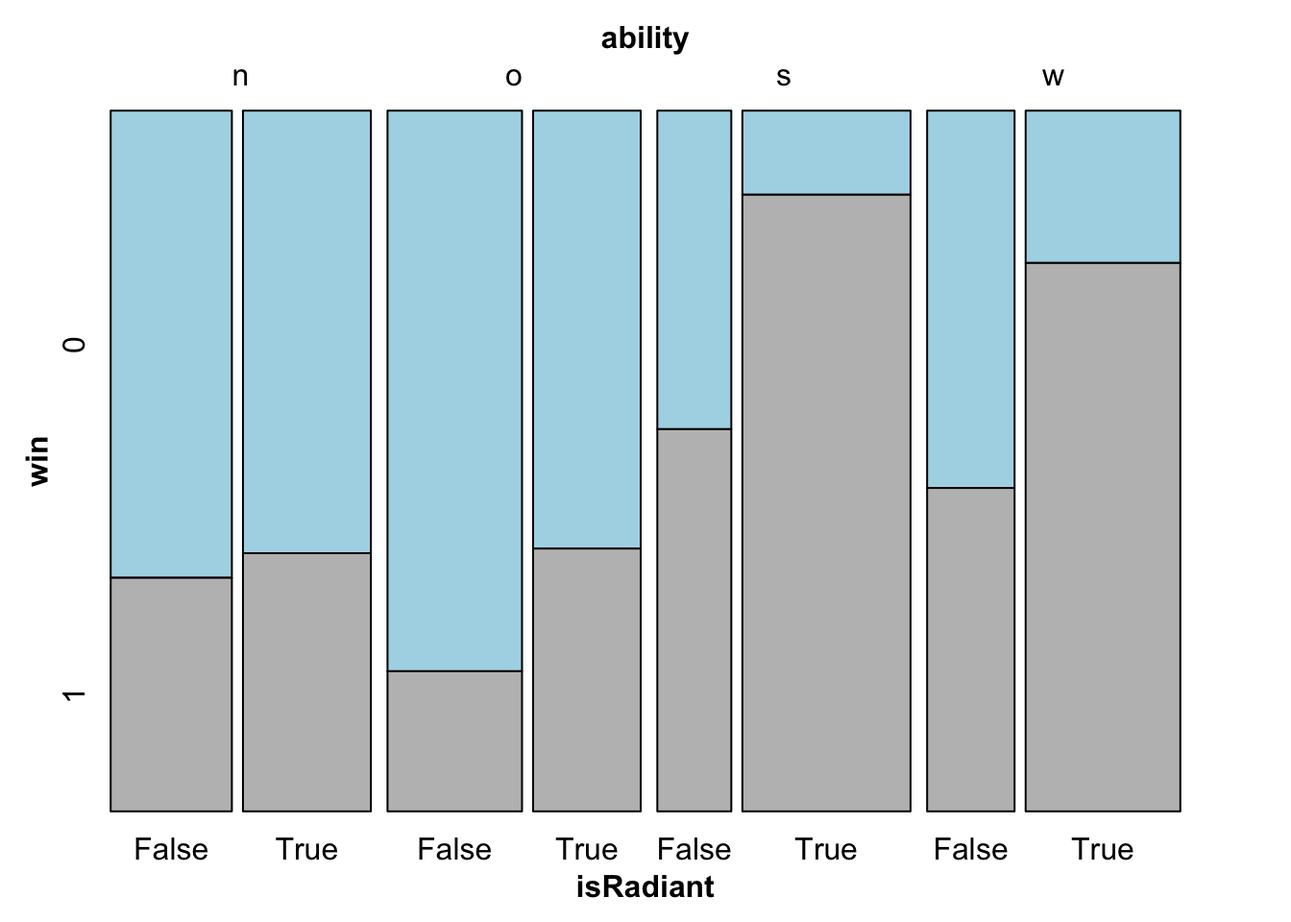
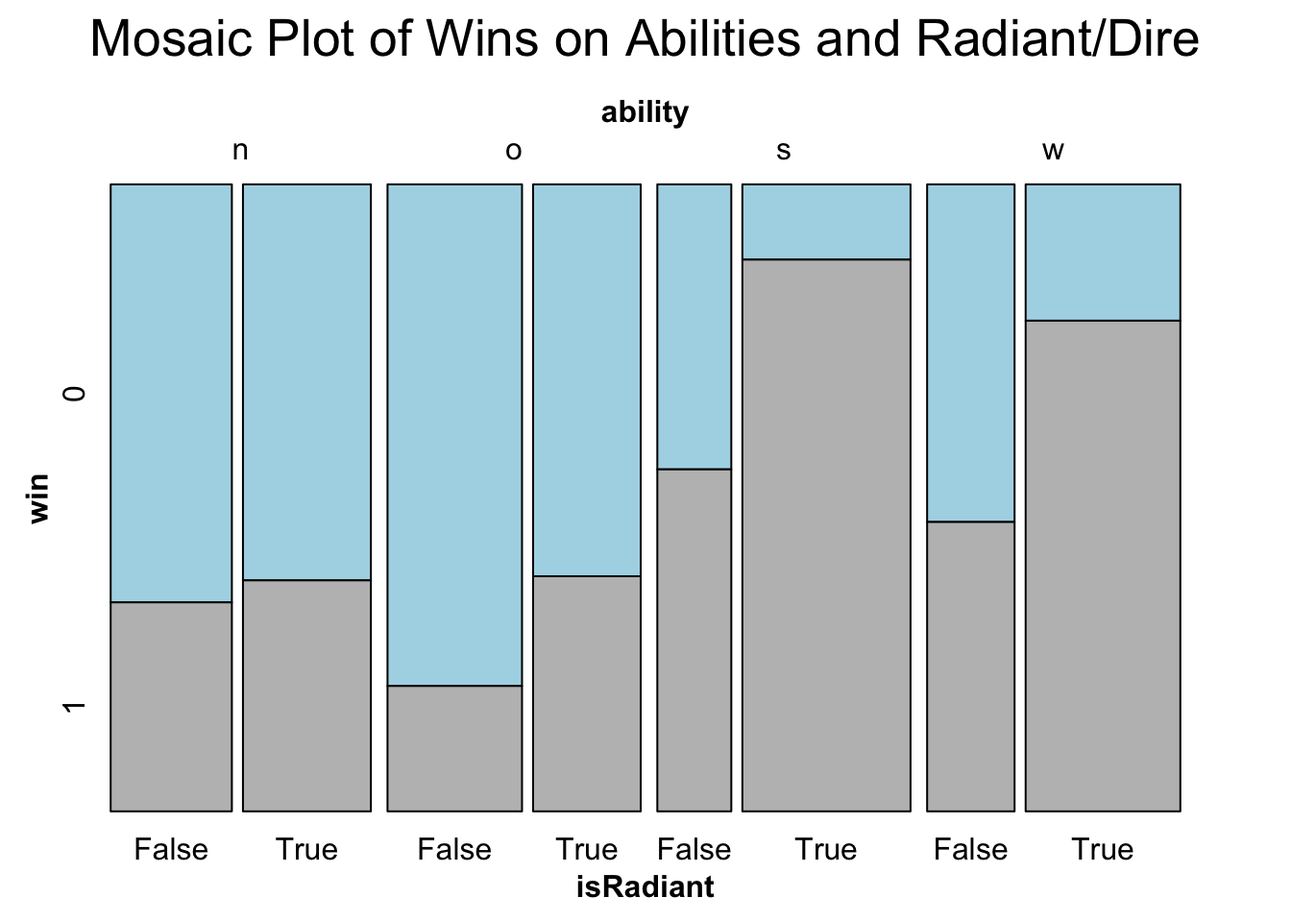
added titles for the graphs in results

diff --git a/docs/results.html b/docs/results.html
@@ -372,8 +372,8 @@ Attaching package: 'dplyr'</code></pre>
 <span id="cb16-2"><a href="#cb16-2" aria-hidden="true" tabindex="-1"></a>parcoords<span class="sc">::</span><span class="fu">parcoords</span>(<span class="at">data =</span> df, <span class="at">rownames =</span> <span class="cn">FALSE</span>, <span class="at">brushMode =</span> <span class="st">"1d-axes"</span>)</span></code><button title="Copy to Clipboard" class="code-copy-button"><i class="bi"></i></button></pre></div>
 </details>
 <div class="cell-output-display">
-<div class="parcoords html-widget html-fill-item-overflow-hidden html-fill-item" height="464px" id="htmlwidget-211e69cf9c2d75d4e1da" style="width:100%;height:464px; position:relative; overflow-x:auto; overflow-y:hidden; max-width:100%;" width="100%"></div>
-<script type="application/json" data-for="htmlwidget-211e69cf9c2d75d4e1da">{"x":{"data":{"names":["9","27","120","154","206","208","304","321","343","352","374","384","395","449","471","485","486","586","596","660","661","714","774","859","878","888","936","979","1009","1010","1046","1083","1117","1142","1151","1209","1262","1271","1296","1339","1351","1408","1418","1492","1499","1518","1577","1587","1652","1657","1663","1760","1794","1812","1850","1877","1954","1982","1989","2001","2053","2058","2098","2101","2113","2115","2131","2188","2224","2275","2300","2307","2352","2382","2390","2393","2442","2465","2484","2524","2561","2580","2607","2618","2676","2696","2713","2724","2735","2768","2831","2835","2836","2880","2884","2888","2939","2992","3093","3128","3264","3371","3405","3440","3452","3500","3533","3566","3570","3623","3722","3781","3793","3867","3895","3901","3931","3976","3986","4023","4050","4096","4149","4172","4174","4251","4278","4384","4415","4504","4569","4599","4639","4674","4745","4805","4823","4840","4885","4902","4906","4990","5009","5032","5070","5104","5149","5259","5292","5308","5328","5400","5437","5469","5511","5518","5627","5640","5655","5660","5690","5713","5728","5757","5762","5777","5855","5860","5886","5944","6000","6017","6021","6153","6192","6197","6200","6209","6259","6264","6318","6335","6338","6383","6422","6425","6436","6541","6553","6560","6581","6665","6718","6744","6841","6842","6943","6949","6958","6996","7027","7036","7052","7055","7123","7157","7163","7173","7312","7371","7422","7432","7492","7517","7556","7575","7608","7614","7698","7708","7712","7756","7780","7796","7845","7885","7914","8013","8029","8081","8106","8107","8155","8194","8261","8272","8371","8583","8606","8616","8639","8713","8760","8819","8906","8933","8941","8946","8953","8985","9044","9125","9180","9188","9251","9258","9283","9320","9394","9398","9495","9527","9549","9615","9625","9746","9747","9763","9851","9858","9863","9896","10004","10079","10091","10108","10110","10133","10135","10197","10217","10230","10350","10359","10388","10396","10398","10402","10570","10624","10626","10651","10706","10760","10762","10798","10848","10858","10886","10913","10987","10995","11043","11046","11110","11115","11131","11202","11228","11266","11304","11306","11315","11344","11368","11374","11394","11399","11430","11463","11525","11546","11588","11600","11630","11795","11835","11839","11863","11869","11939","11997","12031","12046","12051","12086","12103","12171","12202","12305","12325","12352","12437","12490","12495","12530","12548","12565","12566","12576","12629","12667","12758","12762","12770","12873","12878","12887","12898"],"total_gold":[25183,30851,27274,13003,12509,12509,30185,17614,9393,14259,5682,17392,15124,30046,36036,29454,29454,19856,43413,41092,41092,12212,18425,12024,14681,16605,33060,10076,40849,26869,24098,7600,10773,10589,19661,28383,10184,24656,13625,20535,21393,33108,18393,11888,15315,11923,20632,15562,22170,15846,17062,21730,21035,19721,14113,22916,11049,19572,17472,16842,18437,28001,32981,27420,15416,13844,2495,7158,29258,45758,34103,24064,41526,23287,44698,44698,18171,8458,34603,27803,23910,13807,8924,6370,11860,8212,24300,11296,22921,25810,10384,19353,19353,7513,14257,20178,14678,16241,14867,13989,33081,16902,20741,23265,21574,33336,11142,8126,23404,13528,5063,16992,7833,11849,803,3279,15762,19533,23324,44624,14906,23438,8492,14200,15898,23813,20849,31291,12208,12078,17051,13892,33357,14560,15186,17199,15574,17385,13578,34735,13463,12731,31562,29479,4085,15596,8426,20644,18215,20055,31988,15729,29856,30290,24238,13424,12979,12064,29373,16653,37256,26911,27904,13328,15084,15235,48727,35431,20899,41817,11873,15934,10973,13462,17824,26092,12401,14457,15542,25758,29502,18542,18542,5726,12854,45142,57973,29612,27312,37425,52298,7972,26694,19224,8557,8557,12681,44236,57094,13792,12777,22034,22550,11654,21450,27471,29373,38381,17362,17657,13438,17232,16742,14809,20824,26392,16629,19116,28914,11165,10986,15788,36967,19329,34913,9604,23854,21269,34195,21612,12707,12707,29552,33920,38006,37642,26212,13662,14336,11006,14901,15865,19286,8477,52783,48085,21011,20384,26112,29923,11192,19873,39718,29848,13852,9705,6431,19545,28431,28206,21129,29500,32595,10905,22618,32250,30911,14901,20435,25357,13320,14441,14840,20413,19307,32885,21853,1935,4532,15235,18512,11453,25801,16759,23798,9961,9961,18167,24464,6187,5603,16446,16305,22185,22185,12564,13190,34931,22454,16334,28446,12717,9350,12672,14402,10160,21943,14075,7112,17469,11515,6009,22678,14554,7411,16972,49119,34226,40306,13546,22654,22317,21516,39950,18600,24445,17093,16014,31803,30903,13574,8641,12674,16850,10275,16705,43394,14653,8664,15724,24641,24401,19061,20601,19434,17237,18630,11969,11969,16075,12762,31382,12009,26665,11347,22332,3846,9039,3472],"kills":[5,13,7,2,6,6,4,7,2,4,0,6,4,7,20,10,10,2,14,14,14,7,4,3,3,16,9,0,17,14,10,0,4,0,12,10,2,10,2,6,9,7,5,2,9,1,8,4,10,6,8,2,17,9,1,16,2,7,3,4,5,13,18,20,3,5,0,2,10,20,21,6,20,4,18,18,14,4,10,20,9,5,10,2,1,3,21,2,16,7,8,7,7,1,3,7,7,8,13,3,11,13,3,14,10,15,1,2,15,9,0,11,1,1,0,3,0,2,5,34,6,9,2,8,1,15,9,9,2,4,6,6,11,5,3,3,2,8,4,20,3,4,13,4,0,6,3,3,1,6,17,5,5,17,11,5,4,3,14,9,9,5,12,2,8,7,4,9,1,20,10,11,4,5,2,17,5,8,7,16,22,7,7,0,7,13,22,13,7,6,27,5,10,6,8,8,0,8,24,2,7,14,12,1,6,11,7,17,3,0,0,6,7,6,11,9,9,4,13,4,10,6,15,8,14,5,4,14,3,11,5,5,9,5,14,13,22,4,5,3,7,0,9,1,14,20,4,2,5,8,5,12,16,7,5,2,2,6,4,4,9,8,4,8,8,9,12,8,7,6,10,6,3,14,3,12,3,0,3,12,7,3,11,1,3,3,3,6,13,0,2,3,9,4,4,5,7,13,10,4,14,3,0,6,8,1,4,5,3,8,2,3,15,6,0,5,7,11,11,0,6,4,4,19,5,6,4,4,17,6,1,3,1,2,3,2,17,4,3,7,8,11,5,10,4,5,6,8,8,6,6,12,3,15,1,14,1,9,1],"kda":[1.92,3,2,2.3,1.6,1.6,3.5,0.92,1.2,1.13,0.44,5,4.2,2.17,7,8.25,8.25,1.73,2.4,3.91,3.91,3.57,1.62,7,2,42,2.57,0.5600000000000001,19,2.8,3,0.57,3.8,0.43,4.86,2.81,1,7.75,1.5,1.78,2.67,3.14,3.22,3,3.5,0.23,1.77,2,22,2.56,3.75,1.05,3.71,1.63,2.83,2.38,1.88,4.5,1.8,2.45,2.17,3.38,15.5,9,0.86,1.06,2,1,2.13,4.13,9.5,1.36,4.43,3.13,10.67,10.67,6,0.64,2.25,2.75,1.91,2.13,5.5,1.5,1.8,1.45,3.78,9,10.5,10,1.27,2.22,2.22,6.5,1.29,1.64,1.89,2.92,2.22,3.67,3,3.11,1.2,5.25,3.13,4,1,2,7.75,1.45,0.33,7,0.31,2.33,0,5,2.1,2,1.83,9,5.25,13.5,1.64,2,1.07,7.5,5.5,7.5,1.7,1.6,1.62,2.88,5.17,0.77,2,3,1.08,3.75,1.83,6.2,1.64,1.83,4.67,1.33,0.33,1.8,1.4,2.13,2.09,1.62,5,1.75,1.67,8.25,1.73,1.36,1.06,3.57,14,2,1.21,4.33,4.67,0.64,7.5,20,5.6,2,0.93,7.33,2.78,13,0.67,0.64,3,10.67,3.5,2.22,5.25,13,4.43,1.44,1.44,0,4.33,1.61,6.43,8,1.75,1.82,5,0.67,7.75,1.91,8.5,8.5,1,4.17,3.4,2.71,6.25,11.5,3.75,2.2,1.67,2.46,2.17,4.09,2.38,3,0.54,1.58,1.33,1.54,1.5,4.33,1.69,2,3.57,2.29,5,2.08,4,1.8,6.5,1.33,1.64,2.13,1.53,6,1.56,1.56,8,4.5,4.43,3.9,5,4,4.67,0.67,10,6,1.36,0.2,2.33,3.38,2.8,1.29,2,4.13,2.8,11,7.75,10.33,7.33,0.5,0.62,1.83,1.36,3.11,1.85,2.13,2.07,2.75,2,3.88,2.89,4.29,3.43,2.55,2,1.5,1.33,2,7,2.25,1.33,0,3,2.45,4.67,2.11,1.88,1.56,3.29,1.08,1.08,1.64,2.71,0.4,0.5,3.25,2.43,3.5,3.5,7,1.73,2.5,5,0.82,11,4.67,1.5,0.92,1.15,0.7,2.2,2.29,0.76,3.33,1.33,0.5600000000000001,20,2,1.29,1.88,3.64,1.83,2.86,0.33,4.75,1.71,1.83,3.89,1.31,4,1.42,2.78,4.2,5.75,0.43,0.58,8.5,5,3.33,2.44,3.33,4.2,0.79,2.33,3.5,1.67,9,3.43,1.67,1.9,2.45,0.77,0.77,6,2.22,2.44,7.33,22,4.4,2.71,1.6,9,0.43],"total_xp":[30112,35286,30811,20044,14079,14079,30585,18935,12149,14906,7576,18540,21037,34749,46134,35439,35439,34780,43290,50728,50728,18861,24520,18800,21258,21102,39840,13984,45425,35098,35098,9713,12150,14522,27253,38045,13721,30373,20194,23785,27080,35119,29086,15672,19563,11888,27258,23945,25263,20328,19807,30201,26627,22199,20820,27772,19618,25914,20412,21294,28571,36426,41839,37621,19251,20133,2316,8673,32771,43323,41740,35352,50936,34820,45746,45746,15983,8031,39838,35191,37786,20386,8806,6489,12362,10650,27712,17685,26544,27950,13385,23500,23500,9141,18766,33707,18252,24094,17521,18452,44362,25056,21691,35457,28156,42360,12549,10338,28832,16355,3281,18864,11577,17633,316,2102,23046,24792,22880,49748,22394,26980,10089,18644,19475,33624,20047,36250,19500,16834,20515,20820,42612,16632,17868,20097,13377,17226,17463,41351,20887,19281,39218,41354,3941,18316,14950,22929,28310,31002,37295,17502,35258,35692,35010,15702,9879,15736,31701,19407,45295,46902,30602,17636,16192,15235,50988,50920,28429,46263,15831,18838,12978,18736,27692,35515,12570,17928,26195,35218,41875,26746,26746,5379,10961,50061,58239,41553,36452,40887,48837,9545,34449,21796,10265,10265,13692,49583,54293,17319,17269,19788,23308,17511,27866,44983,42522,48900,20793,21159,17892,28971,23288,19486,31765,36902,22920,26821,33813,9683,11701,32054,44361,24388,38170,12106,28709,30127,37105,24472,19110,19110,35153,46481,41583,44121,28050,19382,17197,17995,15612,27227,25172,7691,58473,45210,31725,32300,26206,36699,10781,23144,45640,40196,15897,10972,8665,23408,37326,35469,28908,35621,46898,14272,31560,39991,39147,18255,31355,31562,21882,23089,18270,27554,31909,41924,26054,2555,3838,18332,22906,15523,27962,21020,35433,12864,12864,30350,30223,8588,5494,15065,14565,33345,33345,9888,22650,40025,29739,20652,31257,19377,17673,15412,15365,13154,27509,14344,10489,19678,14114,8133,26975,14115,13939,21696,52262,46865,57659,17878,31140,29495,36757,45544,25639,23237,25100,22806,36571,36571,17115,9382,13634,14831,10482,30049,46905,21375,9355,25793,35558,36441,28592,26256,34919,27561,32603,12351,12351,17412,16365,41050,19916,30767,19056,35027,4894,8156,5133]},"options":{"rownames":false,"brushMode":"1D-axes","brushPredicate":"AND","reorderable":false,"margin":{"top":50,"bottom":50,"left":100,"right":50},"mode":false,"bundlingStrength":0.5,"smoothness":0},"autoresize":false,"tasks":null},"evals":[],"jsHooks":[]}</script>
+<div class="parcoords html-widget html-fill-item-overflow-hidden html-fill-item" height="464px" id="htmlwidget-132b65a745323eacc547" style="width:100%;height:464px; position:relative; overflow-x:auto; overflow-y:hidden; max-width:100%;" width="100%"></div>
+<script type="application/json" data-for="htmlwidget-132b65a745323eacc547">{"x":{"data":{"names":["9","27","120","154","206","208","304","321","343","352","374","384","395","449","471","485","486","586","596","660","661","714","774","859","878","888","936","979","1009","1010","1046","1083","1117","1142","1151","1209","1262","1271","1296","1339","1351","1408","1418","1492","1499","1518","1577","1587","1652","1657","1663","1760","1794","1812","1850","1877","1954","1982","1989","2001","2053","2058","2098","2101","2113","2115","2131","2188","2224","2275","2300","2307","2352","2382","2390","2393","2442","2465","2484","2524","2561","2580","2607","2618","2676","2696","2713","2724","2735","2768","2831","2835","2836","2880","2884","2888","2939","2992","3093","3128","3264","3371","3405","3440","3452","3500","3533","3566","3570","3623","3722","3781","3793","3867","3895","3901","3931","3976","3986","4023","4050","4096","4149","4172","4174","4251","4278","4384","4415","4504","4569","4599","4639","4674","4745","4805","4823","4840","4885","4902","4906","4990","5009","5032","5070","5104","5149","5259","5292","5308","5328","5400","5437","5469","5511","5518","5627","5640","5655","5660","5690","5713","5728","5757","5762","5777","5855","5860","5886","5944","6000","6017","6021","6153","6192","6197","6200","6209","6259","6264","6318","6335","6338","6383","6422","6425","6436","6541","6553","6560","6581","6665","6718","6744","6841","6842","6943","6949","6958","6996","7027","7036","7052","7055","7123","7157","7163","7173","7312","7371","7422","7432","7492","7517","7556","7575","7608","7614","7698","7708","7712","7756","7780","7796","7845","7885","7914","8013","8029","8081","8106","8107","8155","8194","8261","8272","8371","8583","8606","8616","8639","8713","8760","8819","8906","8933","8941","8946","8953","8985","9044","9125","9180","9188","9251","9258","9283","9320","9394","9398","9495","9527","9549","9615","9625","9746","9747","9763","9851","9858","9863","9896","10004","10079","10091","10108","10110","10133","10135","10197","10217","10230","10350","10359","10388","10396","10398","10402","10570","10624","10626","10651","10706","10760","10762","10798","10848","10858","10886","10913","10987","10995","11043","11046","11110","11115","11131","11202","11228","11266","11304","11306","11315","11344","11368","11374","11394","11399","11430","11463","11525","11546","11588","11600","11630","11795","11835","11839","11863","11869","11939","11997","12031","12046","12051","12086","12103","12171","12202","12305","12325","12352","12437","12490","12495","12530","12548","12565","12566","12576","12629","12667","12758","12762","12770","12873","12878","12887","12898"],"total_gold":[25183,30851,27274,13003,12509,12509,30185,17614,9393,14259,5682,17392,15124,30046,36036,29454,29454,19856,43413,41092,41092,12212,18425,12024,14681,16605,33060,10076,40849,26869,24098,7600,10773,10589,19661,28383,10184,24656,13625,20535,21393,33108,18393,11888,15315,11923,20632,15562,22170,15846,17062,21730,21035,19721,14113,22916,11049,19572,17472,16842,18437,28001,32981,27420,15416,13844,2495,7158,29258,45758,34103,24064,41526,23287,44698,44698,18171,8458,34603,27803,23910,13807,8924,6370,11860,8212,24300,11296,22921,25810,10384,19353,19353,7513,14257,20178,14678,16241,14867,13989,33081,16902,20741,23265,21574,33336,11142,8126,23404,13528,5063,16992,7833,11849,803,3279,15762,19533,23324,44624,14906,23438,8492,14200,15898,23813,20849,31291,12208,12078,17051,13892,33357,14560,15186,17199,15574,17385,13578,34735,13463,12731,31562,29479,4085,15596,8426,20644,18215,20055,31988,15729,29856,30290,24238,13424,12979,12064,29373,16653,37256,26911,27904,13328,15084,15235,48727,35431,20899,41817,11873,15934,10973,13462,17824,26092,12401,14457,15542,25758,29502,18542,18542,5726,12854,45142,57973,29612,27312,37425,52298,7972,26694,19224,8557,8557,12681,44236,57094,13792,12777,22034,22550,11654,21450,27471,29373,38381,17362,17657,13438,17232,16742,14809,20824,26392,16629,19116,28914,11165,10986,15788,36967,19329,34913,9604,23854,21269,34195,21612,12707,12707,29552,33920,38006,37642,26212,13662,14336,11006,14901,15865,19286,8477,52783,48085,21011,20384,26112,29923,11192,19873,39718,29848,13852,9705,6431,19545,28431,28206,21129,29500,32595,10905,22618,32250,30911,14901,20435,25357,13320,14441,14840,20413,19307,32885,21853,1935,4532,15235,18512,11453,25801,16759,23798,9961,9961,18167,24464,6187,5603,16446,16305,22185,22185,12564,13190,34931,22454,16334,28446,12717,9350,12672,14402,10160,21943,14075,7112,17469,11515,6009,22678,14554,7411,16972,49119,34226,40306,13546,22654,22317,21516,39950,18600,24445,17093,16014,31803,30903,13574,8641,12674,16850,10275,16705,43394,14653,8664,15724,24641,24401,19061,20601,19434,17237,18630,11969,11969,16075,12762,31382,12009,26665,11347,22332,3846,9039,3472],"kills":[5,13,7,2,6,6,4,7,2,4,0,6,4,7,20,10,10,2,14,14,14,7,4,3,3,16,9,0,17,14,10,0,4,0,12,10,2,10,2,6,9,7,5,2,9,1,8,4,10,6,8,2,17,9,1,16,2,7,3,4,5,13,18,20,3,5,0,2,10,20,21,6,20,4,18,18,14,4,10,20,9,5,10,2,1,3,21,2,16,7,8,7,7,1,3,7,7,8,13,3,11,13,3,14,10,15,1,2,15,9,0,11,1,1,0,3,0,2,5,34,6,9,2,8,1,15,9,9,2,4,6,6,11,5,3,3,2,8,4,20,3,4,13,4,0,6,3,3,1,6,17,5,5,17,11,5,4,3,14,9,9,5,12,2,8,7,4,9,1,20,10,11,4,5,2,17,5,8,7,16,22,7,7,0,7,13,22,13,7,6,27,5,10,6,8,8,0,8,24,2,7,14,12,1,6,11,7,17,3,0,0,6,7,6,11,9,9,4,13,4,10,6,15,8,14,5,4,14,3,11,5,5,9,5,14,13,22,4,5,3,7,0,9,1,14,20,4,2,5,8,5,12,16,7,5,2,2,6,4,4,9,8,4,8,8,9,12,8,7,6,10,6,3,14,3,12,3,0,3,12,7,3,11,1,3,3,3,6,13,0,2,3,9,4,4,5,7,13,10,4,14,3,0,6,8,1,4,5,3,8,2,3,15,6,0,5,7,11,11,0,6,4,4,19,5,6,4,4,17,6,1,3,1,2,3,2,17,4,3,7,8,11,5,10,4,5,6,8,8,6,6,12,3,15,1,14,1,9,1],"kda":[1.92,3,2,2.3,1.6,1.6,3.5,0.92,1.2,1.13,0.44,5,4.2,2.17,7,8.25,8.25,1.73,2.4,3.91,3.91,3.57,1.62,7,2,42,2.57,0.5600000000000001,19,2.8,3,0.57,3.8,0.43,4.86,2.81,1,7.75,1.5,1.78,2.67,3.14,3.22,3,3.5,0.23,1.77,2,22,2.56,3.75,1.05,3.71,1.63,2.83,2.38,1.88,4.5,1.8,2.45,2.17,3.38,15.5,9,0.86,1.06,2,1,2.13,4.13,9.5,1.36,4.43,3.13,10.67,10.67,6,0.64,2.25,2.75,1.91,2.13,5.5,1.5,1.8,1.45,3.78,9,10.5,10,1.27,2.22,2.22,6.5,1.29,1.64,1.89,2.92,2.22,3.67,3,3.11,1.2,5.25,3.13,4,1,2,7.75,1.45,0.33,7,0.31,2.33,0,5,2.1,2,1.83,9,5.25,13.5,1.64,2,1.07,7.5,5.5,7.5,1.7,1.6,1.62,2.88,5.17,0.77,2,3,1.08,3.75,1.83,6.2,1.64,1.83,4.67,1.33,0.33,1.8,1.4,2.13,2.09,1.62,5,1.75,1.67,8.25,1.73,1.36,1.06,3.57,14,2,1.21,4.33,4.67,0.64,7.5,20,5.6,2,0.93,7.33,2.78,13,0.67,0.64,3,10.67,3.5,2.22,5.25,13,4.43,1.44,1.44,0,4.33,1.61,6.43,8,1.75,1.82,5,0.67,7.75,1.91,8.5,8.5,1,4.17,3.4,2.71,6.25,11.5,3.75,2.2,1.67,2.46,2.17,4.09,2.38,3,0.54,1.58,1.33,1.54,1.5,4.33,1.69,2,3.57,2.29,5,2.08,4,1.8,6.5,1.33,1.64,2.13,1.53,6,1.56,1.56,8,4.5,4.43,3.9,5,4,4.67,0.67,10,6,1.36,0.2,2.33,3.38,2.8,1.29,2,4.13,2.8,11,7.75,10.33,7.33,0.5,0.62,1.83,1.36,3.11,1.85,2.13,2.07,2.75,2,3.88,2.89,4.29,3.43,2.55,2,1.5,1.33,2,7,2.25,1.33,0,3,2.45,4.67,2.11,1.88,1.56,3.29,1.08,1.08,1.64,2.71,0.4,0.5,3.25,2.43,3.5,3.5,7,1.73,2.5,5,0.82,11,4.67,1.5,0.92,1.15,0.7,2.2,2.29,0.76,3.33,1.33,0.5600000000000001,20,2,1.29,1.88,3.64,1.83,2.86,0.33,4.75,1.71,1.83,3.89,1.31,4,1.42,2.78,4.2,5.75,0.43,0.58,8.5,5,3.33,2.44,3.33,4.2,0.79,2.33,3.5,1.67,9,3.43,1.67,1.9,2.45,0.77,0.77,6,2.22,2.44,7.33,22,4.4,2.71,1.6,9,0.43],"total_xp":[30112,35286,30811,20044,14079,14079,30585,18935,12149,14906,7576,18540,21037,34749,46134,35439,35439,34780,43290,50728,50728,18861,24520,18800,21258,21102,39840,13984,45425,35098,35098,9713,12150,14522,27253,38045,13721,30373,20194,23785,27080,35119,29086,15672,19563,11888,27258,23945,25263,20328,19807,30201,26627,22199,20820,27772,19618,25914,20412,21294,28571,36426,41839,37621,19251,20133,2316,8673,32771,43323,41740,35352,50936,34820,45746,45746,15983,8031,39838,35191,37786,20386,8806,6489,12362,10650,27712,17685,26544,27950,13385,23500,23500,9141,18766,33707,18252,24094,17521,18452,44362,25056,21691,35457,28156,42360,12549,10338,28832,16355,3281,18864,11577,17633,316,2102,23046,24792,22880,49748,22394,26980,10089,18644,19475,33624,20047,36250,19500,16834,20515,20820,42612,16632,17868,20097,13377,17226,17463,41351,20887,19281,39218,41354,3941,18316,14950,22929,28310,31002,37295,17502,35258,35692,35010,15702,9879,15736,31701,19407,45295,46902,30602,17636,16192,15235,50988,50920,28429,46263,15831,18838,12978,18736,27692,35515,12570,17928,26195,35218,41875,26746,26746,5379,10961,50061,58239,41553,36452,40887,48837,9545,34449,21796,10265,10265,13692,49583,54293,17319,17269,19788,23308,17511,27866,44983,42522,48900,20793,21159,17892,28971,23288,19486,31765,36902,22920,26821,33813,9683,11701,32054,44361,24388,38170,12106,28709,30127,37105,24472,19110,19110,35153,46481,41583,44121,28050,19382,17197,17995,15612,27227,25172,7691,58473,45210,31725,32300,26206,36699,10781,23144,45640,40196,15897,10972,8665,23408,37326,35469,28908,35621,46898,14272,31560,39991,39147,18255,31355,31562,21882,23089,18270,27554,31909,41924,26054,2555,3838,18332,22906,15523,27962,21020,35433,12864,12864,30350,30223,8588,5494,15065,14565,33345,33345,9888,22650,40025,29739,20652,31257,19377,17673,15412,15365,13154,27509,14344,10489,19678,14114,8133,26975,14115,13939,21696,52262,46865,57659,17878,31140,29495,36757,45544,25639,23237,25100,22806,36571,36571,17115,9382,13634,14831,10482,30049,46905,21375,9355,25793,35558,36441,28592,26256,34919,27561,32603,12351,12351,17412,16365,41050,19916,30767,19056,35027,4894,8156,5133]},"options":{"rownames":false,"brushMode":"1D-axes","brushPredicate":"AND","reorderable":false,"margin":{"top":50,"bottom":50,"left":100,"right":50},"mode":false,"bundlingStrength":0.5,"smoothness":0},"autoresize":false,"tasks":null},"evals":[],"jsHooks":[]}</script>
 </div>
 </div>
 <p>This is the interactive parallel coordinate plot for all 10 abilities. We make it interactive such that we can move axis around and we can filter for particular section which easier to see the top abilities. However, since the dataset is too large, the lines overlap, so we need to select specific region to interpret the plot.</p>
@@ -384,8 +384,8 @@ Attaching package: 'dplyr'</code></pre>
 <span id="cb17-2"><a href="#cb17-2" aria-hidden="true" tabindex="-1"></a>parcoords<span class="sc">::</span><span class="fu">parcoords</span>(<span class="at">data =</span> df, <span class="at">rownames =</span> <span class="cn">FALSE</span>, <span class="at">brushMode =</span> <span class="st">"1d-axes"</span>)</span></code><button title="Copy to Clipboard" class="code-copy-button"><i class="bi"></i></button></pre></div>
 </details>
 <div class="cell-output-display">
-<div class="parcoords html-widget html-fill-item-overflow-hidden html-fill-item" height="464px" id="htmlwidget-9106399374efac8b5dff" style="width:100%;height:464px; position:relative; overflow-x:auto; overflow-y:hidden; max-width:100%;" width="100%"></div>
-<script type="application/json" data-for="htmlwidget-9106399374efac8b5dff">{"x":{"data":{"names":["1009","2098","2390","2393","6197"],"total_gold":[40849,32981,44698,44698,26092],"kills":[17,18,18,18,17],"kda":[19,15.5,10.67,10.67,10.67],"total_xp":[45425,41839,45746,45746,35515]},"options":{"rownames":false,"brushMode":"1D-axes","brushPredicate":"AND","reorderable":false,"margin":{"top":50,"bottom":50,"left":100,"right":50},"mode":false,"bundlingStrength":0.5,"smoothness":0},"autoresize":false,"tasks":null},"evals":[],"jsHooks":[]}</script>
+<div class="parcoords html-widget html-fill-item-overflow-hidden html-fill-item" height="464px" id="htmlwidget-2d3d32015e77822e8d83" style="width:100%;height:464px; position:relative; overflow-x:auto; overflow-y:hidden; max-width:100%;" width="100%"></div>
+<script type="application/json" data-for="htmlwidget-2d3d32015e77822e8d83">{"x":{"data":{"names":["1009","2098","2390","2393","6197"],"total_gold":[40849,32981,44698,44698,26092],"kills":[17,18,18,18,17],"kda":[19,15.5,10.67,10.67,10.67],"total_xp":[45425,41839,45746,45746,35515]},"options":{"rownames":false,"brushMode":"1D-axes","brushPredicate":"AND","reorderable":false,"margin":{"top":50,"bottom":50,"left":100,"right":50},"mode":false,"bundlingStrength":0.5,"smoothness":0},"autoresize":false,"tasks":null},"evals":[],"jsHooks":[]}</script>
 </div>
 </div>
 <p>From the interactive parallel coordinate plot, I select a specific region where these abilities have relatively high values across all four variables, kills, gold, experiences points earned, and kda, and I filter the dataset based on that.</p>
@@ -404,7 +404,7 @@ Attaching package: 'dplyr'</code></pre>
 6197      26092    17 10.67    35515  necrolyte_reapers_scythe</code></pre>
 </div>
 </div>
-<p>In total, I select 4 top abilities through these parallel coordinate plots, which are the following:<br>
+<p>From the data frame we can see two of the rows are from same ability. In total, I select 4 top abilities through these parallel coordinate plots, which are the following:<br>
 1. omniknight_martyr<br>
 2. winter_wyvern_arctic_burn<br>
 3. slark_shadow_dance<br>
@@ -424,7 +424,7 @@ Attaching package: 'dplyr'</code></pre>
 <span id="cb20-5"><a href="#cb20-5" aria-hidden="true" tabindex="-1"></a>df_2[df_2 <span class="sc">==</span> <span class="st">"winter_wyvern_arctic_burn"</span>] <span class="ot">&lt;-</span> <span class="st">'w'</span></span>
 <span id="cb20-6"><a href="#cb20-6" aria-hidden="true" tabindex="-1"></a>df_2[df_2 <span class="sc">==</span> <span class="st">"necrolyte_reapers_scythe"</span>] <span class="ot">&lt;-</span> <span class="st">'n'</span></span>
 <span id="cb20-7"><a href="#cb20-7" aria-hidden="true" tabindex="-1"></a></span>
-<span id="cb20-8"><a href="#cb20-8" aria-hidden="true" tabindex="-1"></a>vcd<span class="sc">::</span><span class="fu">mosaic</span>(win<span class="sc">~</span>ability<span class="sc">+</span>isRadiant, <span class="at">data =</span> df_2, <span class="at">direction =</span> <span class="fu">c</span>(<span class="st">"v"</span>,<span class="st">"v"</span>,<span class="st">"h"</span>), <span class="at">highlighting_fill=</span> <span class="fu">matrix</span>(<span class="fu">c</span>(<span class="st">"lightblue"</span>,<span class="st">"grey"</span>),)) </span></code><button title="Copy to Clipboard" class="code-copy-button"><i class="bi"></i></button></pre></div>
+<span id="cb20-8"><a href="#cb20-8" aria-hidden="true" tabindex="-1"></a>vcd<span class="sc">::</span><span class="fu">mosaic</span>(win<span class="sc">~</span>ability<span class="sc">+</span>isRadiant, <span class="at">data =</span> df_2, <span class="at">direction =</span> <span class="fu">c</span>(<span class="st">"v"</span>,<span class="st">"v"</span>,<span class="st">"h"</span>), <span class="at">main =</span> <span class="st">"Mosaic Plot of Wins on Abilities and Radiant/Dire"</span>, <span class="at">highlighting_fill=</span> <span class="fu">matrix</span>(<span class="fu">c</span>(<span class="st">"lightblue"</span>,<span class="st">"grey"</span>),)) </span></code><button title="Copy to Clipboard" class="code-copy-button"><i class="bi"></i></button></pre></div>
 </details>
 <div class="cell-output-display">
 <p><img src="results_files/figure-html/unnamed-chunk-10-1.png" class="img-fluid" width="672"></p>
@@ -509,7 +509,7 @@ From the above mosaic plot, we can see for the three abilities “omniknight_mar
 <div class="sourceCode cell-code" id="cb23"><pre class="sourceCode r code-with-copy"><code class="sourceCode r"><span id="cb23-1"><a href="#cb23-1" aria-hidden="true" tabindex="-1"></a><span class="fu">ggplot</span>(saved_for_fourth, <span class="fu">aes</span>(net_worth))<span class="sc">+</span></span>
 <span id="cb23-2"><a href="#cb23-2" aria-hidden="true" tabindex="-1"></a>  <span class="fu">geom_histogram</span>(<span class="at">color =</span> <span class="st">'cornflowerblue'</span>, <span class="at">fill =</span> <span class="st">'lightblue'</span>, <span class="at">bins=</span><span class="dv">15</span>)<span class="sc">+</span></span>
 <span id="cb23-3"><a href="#cb23-3" aria-hidden="true" tabindex="-1"></a>  <span class="fu">facet_wrap</span>(<span class="sc">~</span>ability)<span class="sc">+</span></span>
-<span id="cb23-4"><a href="#cb23-4" aria-hidden="true" tabindex="-1"></a>  <span class="fu">labs</span>(<span class="st">"Faceted Histogram of Net Worth"</span>)<span class="sc">+</span></span>
+<span id="cb23-4"><a href="#cb23-4" aria-hidden="true" tabindex="-1"></a>  <span class="fu">ggtitle</span>(<span class="st">"Faceted Histogram of Net Worth"</span>)<span class="sc">+</span></span>
 <span id="cb23-5"><a href="#cb23-5" aria-hidden="true" tabindex="-1"></a>  <span class="fu">theme_grey</span>(<span class="dv">9</span>)</span></code><button title="Copy to Clipboard" class="code-copy-button"><i class="bi"></i></button></pre></div>
 </details>
 <div class="cell-output-display">
@@ -526,7 +526,7 @@ From the above mosaic plot, we can see for the three abilities “omniknight_mar
 <summary>Code</summary>
 <div class="sourceCode cell-code" id="cb24"><pre class="sourceCode r code-with-copy"><code class="sourceCode r"><span id="cb24-1"><a href="#cb24-1" aria-hidden="true" tabindex="-1"></a>dota2 <span class="ot">=</span> dota2[,<span class="fu">c</span>(<span class="st">"total_gold"</span>,<span class="st">"kills"</span>,<span class="st">"kda"</span>,<span class="st">"total_xp"</span>,<span class="st">"net_worth"</span>)]</span>
 <span id="cb24-2"><a href="#cb24-2" aria-hidden="true" tabindex="-1"></a>asdf <span class="ot">&lt;-</span> dplyr<span class="sc">::</span><span class="fu">select</span>(dota2, total_gold, kills, kda, total_xp, net_worth)</span>
-<span id="cb24-3"><a href="#cb24-3" aria-hidden="true" tabindex="-1"></a><span class="fu">plot</span>(asdf, <span class="at">pch =</span> <span class="dv">16</span>, <span class="at">cex =</span> <span class="fl">0.3</span>)</span></code><button title="Copy to Clipboard" class="code-copy-button"><i class="bi"></i></button></pre></div>
+<span id="cb24-3"><a href="#cb24-3" aria-hidden="true" tabindex="-1"></a><span class="fu">plot</span>(asdf, <span class="at">pch =</span> <span class="dv">16</span>, <span class="at">cex =</span> <span class="fl">0.3</span>, <span class="at">main =</span> <span class="st">'Scatterplot Matrix for Dota2 Dataset'</span>)</span></code><button title="Copy to Clipboard" class="code-copy-button"><i class="bi"></i></button></pre></div>
 </details>
 <div class="cell-output-display">
 <p><img src="results_files/figure-html/unnamed-chunk-14-1.png" class="img-fluid" width="672"></p>
